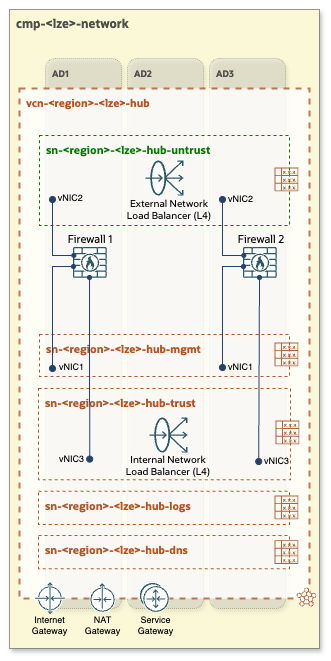
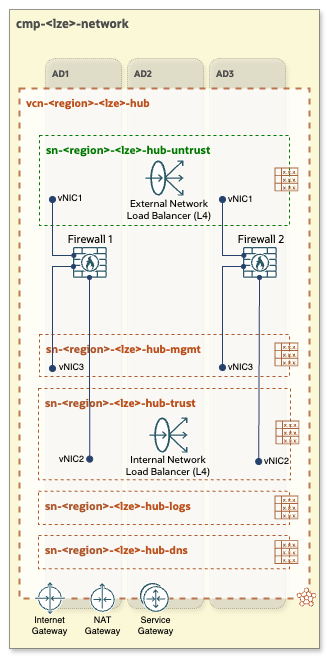
the first update of Hub-C and fixes

diff --git a/addons/oci-hub-models/hub_c/hub-c-packet_flow.md b/addons/oci-hub-models/hub_c/hub-c-packet_flow.md
@@ -1,0 +1,103 @@
+# OCI Open LZ - [Hub C Packet Flow](#)
+
+&nbsp; 
+
+### Overview
+The purpose of this document is to illustrate, through explanatory animations, the journey of a request packet (shown as a red rectangle) and a response packet (shown as a blue rectangle), along with the corresponding routing rules in each routing table (RT), for Inbound-Outbound (North-South) and East-West network traffic, within a **Hub C** and Spoke VCNs.
+
+&nbsp; 
+
+### Hub configuration details
+The setup includes two private Network Load Balancers operating in transparent mode with symmetric hashing enabled, two third-party network firewalls ensuring high availability (HA), and a public Load Balancer (LBaaS).
+
+&nbsp;
+
+#### **Network Load Balancer: NLB-Untrust**
+   - Type: *Private*
+   - Mode: *Source and destination IP header preservation (transparent)*
+   - Symmetric hashing: *Enabled*
+   - Placement: *Public Untrust subnet*
+   - Backends: *The first vNICs of Firewall 1 and Firewall 2*
+ 
+#### **Network Load Balancer: NLB-Trust**
+   - Type: *Private*
+   - Mode: *Source and destination IP header preservation (transparent)*
+   - Symmetric hashing: *Enabled*
+   - Placement: *Private Trust subnet*
+   - Backends: *The second vNICs of Firewall 1 and Firewall 2*
+
+&nbsp;
+
+#### **Third-Party Network Firewall configuration**
+In this architecture, each firewall appliance has two virtual network interfaces: one in the Trust (private) subnet and the second one in the Untrust (public) subnet (depending on the third-party firewall vendor, additional interfaces may be presented, such as a management network interface). The interface in the public subnet is associated with a public IP address. The firewalls perform NAT for outbound traffic, allowing the Spoke VMs to reach the internet via the public interfaces (vNIC1) of either Firewall 1 or Firewall 2.
+
+The firewalls have been configured with the following static route rules:
+
+| Network | Description | Gateway | Description |
+| --- | --- | --- | --- |
+| 0.0.0.0/0 |     | 10.0.0.1 | Default Gateway of Untrust subnet |
+| 10.0.2.0/24 | CIDR of Load Balancer's subnet | 10.0.1.1 | Default Gateway of Trust subnet |
+| 192.168.10.0/24 | Spoke A | 10.0.1.1 | Default Gateway of Trust subnet |
+| 192.168.20.0/24 | Spoke B | 10.0.1.1 | Default Gateway of Trust subnet |
+
+*Table 1: 3rd Party Firewall Route Table*
+
+&nbsp;
+
+#### **Load Balancer (LBaaS)**
+To serve different web applications the public Load Balancer leverages the routing policy, which has the following configuration:
+- if a.example.com, then route to backend VM-A
+- if b.example.com, then route to backend VM-B
+
+&nbsp;
+
+### Symmetric Hashing feature
+
+The OCI Network Load Balancer leverages symmetric hashing to ensure consistent handling of packets belonging to the same flow in both forward and return directions. Here's how symmetric hashing benefits the configuration:
+- Hash Calculation: Symmetric hashing calculates the same hash for packets in both forward and return directions. This means the hash remains unchanged when the source IP address:port value is exchanged with the destination IP address:port value.
+- Traffic Inspection: By enabling symmetric hashing, both forward and return traffic can be inspected by the same firewall appliance. This firewall appliance is hosted as a backend on the OCI Network Load Balancer, functioning in a [bump-in-the-wire](https://en.wikipedia.org/wiki/Bump-in-the-wire) fashion.
+- Simplified Firewall Configuration: Symmetric hashing eliminates the need for complex configurations on the firewall appliances, such as source NAT. This helps prevent asymmetric routing issues, ensuring a more streamlined and efficient setup.
+
+Enabling symmetric hashing allows for better traffic management and inspection, scaling of network firewall appliances, and reducing the complexity of firewall configurations while maintaining efficient and reliable network routing.
+
+For more information on [OCI Network Load Balancer and Symmetric hashing](https://docs.oracle.com/en-us/iaas/Content/NetworkLoadBalancer/NetworkLoadBalancers/preserve-source-id.htm).
+
+&nbsp;
+
+### 1. Inbound Packet Flow
+- Source: Internet
+- Destination: 192.168.10.10 
+
+<img src=“https://github.com/vavardan/hub_spoke_assets/blob/main/hub_c_inbound.gif” width=“600"/>
+
+A user from the Internet attempts to access *a.example.com*, which is hosted on **VM-A** behind a Public Load Balancer. Upon DNS resolution, the user's request targets the Load Balancer's public IP address. The packet then enters the Hub VCN via Internet Gateway, which has an associated VCN route table **RT: vcn-hub-igw** (Gateway Ingress Routing). The route rule defined in this VCN route table forces the packet to go through a private IP address of the **NLB-Untrust** network load balancer. **NLB-Untrust** selects one of the backend Firewalls and uses symmetric hashing to calculate the same hash for packets in both, forward and return directions. After control and inspection the firewall routes the packet to the public load balancer, based on its internal static routes ([*Table 1*](#Third-Party-Network-Firewall-configuration)) and VCN implicit local route. The Load Balancer then attempts to forward the packet to the appropriate backend VM (in this case to **VM-A**), based on its routing policy rules.
+
+&nbsp; 
+
+### 2. Outbound Packet Flow
+- Source: 192.168.10.10
+- Destination: Internet
+  
+<img src=“https://github.com/vavardan/hub_spoke_assets/blob/main/hub_c_outbound.gif” width=“600"/>
+
+**VM-A** initiates a communication to the Internet. The packet traverses through the Dynamic Routing Gateway (DRG) and is forced by the VCN route table - **RT: vcn-hub-ingress** to choose as the next-hop **NLB-Trust**. Then it selects one of the backend firewalls and uses symmetric hashing to calculate the same hash for packets in both, forward and return directions. After inpection, firewall does a NAT and routes the packet via vNIC1 to the Internet Gateway, based on its internal static routes ([*Table 1*](#Third-Party-Network-Firewall-configuration)) and VCN route table - **RT: vcn-hub-subnet-untrust**.
+
+&nbsp; 
+
+### 3. East-West Packet Flow
+- Source: 192.168.10.10
+- Destination: 192.168.20.20 
+
+<img src=“https://github.com/vavardan/hub_spoke_assets/blob/main/hub_c_east_west.gif” width=“600"/>
+
+**VM-A** initiates a communication with **VM-B**. The packet goes through the Dynamic Routing Gateway (DRG) and and is forced by the VCN route table - **RT: vcn-hub-ingress** to choose as the next-hop **NLB-Trust**. Then it selects one of the backend firewalls and uses symmetric hashing to calculate the same hash for packets in both, forward and return directions. Firewall ispects the packet and routes it back to the DRG, based on its internal static routes ([*Table 1*](#Third-Party-Network-Firewall-configuration)) and VCN route table - **RT: vcn-hub-subnet-trust**, which is assosiated with **subnet-hub-trust** subnet. The response packet follows a similar flow to get back to the **VM-A**.
+
+&nbsp; 
+
+# License
+
+Copyright (c) 2024 Oracle and/or its affiliates.
+
+Licensed under the Universal Permissive License (UPL), Version 1.0.
+
+See [LICENSE](LICENSE) for more details.

diff --git a/addons/oci-hub-models/hub_c/readme.md b/addons/oci-hub-models/hub_c/readme.md
@@ -1,0 +1,92 @@
+# OCI Open LZ - [Hub C](#)
+## A Hub with 3rd Party FW - Active/Active
+
+&nbsp; 
+
+**Table of Contents**
+
+[1. Overview](#1-overview)</br>
+[2. Components](#2-components)</br>
+[3. Specifications and Considerations](#3-specifications-and-considerations)</br>
+[4. Routing](#4-routing)</br>
+[5. Automation](#5-automation)</br>
+
+&nbsp;
+
+### Overview
+**Hub C** features third-party network firewalls configured in an Active/Active design, paired with OCI private Network Load Balancers operating in transparent mode with symmetric hashing to ensure packet flow symmetry. These firewalls manage both Inbound/Outbound (North-South) and East-West traffic, providing thorough control and inspection.
+
+&nbsp; 
+
+<img src="images/hub_c_design.png" width="250" height="value">
+
+> [!NOTE]
+> *This Hub diagram presents a general view of the **Hub C** architecture and its key concepts. A more detailed example, including routing tables and an internet-facing Load Balancer, is presented below.*
+
+&nbsp;
+
+###  2. Components
+- VCN (Virtual Cloud Network)
+- Two regional public subnets (depicted in green)
+    1. public-subnet for External Network Load Balancer (NLB-Untrust) and the external interfaces of the firewalls (vNIC1)
+    2. public-subnet for Load Balancer (LBaaS)
+- Four regional private subnets (depicted in dark-orange)
+    1. private-subnet for Internal Network Load Balancer (NLB-Trust) and the internal interfaces of the firewalls (vNIC2)
+    2. private-subnet for managment workloads (depending on the 3rd-party firewall vendor, additional interfaces may be created here, such as a management network interfaces)
+    3. private-subnet for logs
+    4. private-subnet for DNS (for OCI DNS resolver endpoints)
+- Internet Gateway
+- Service Gateway
+- Two OCI Network Load Balancers
+- Two 3rd party Network Firewalls
+- Public Load Balancer (LBaaS)
+
+&nbsp;
+
+### 3. Specifications and Considerations
+- Symmetric hashing: Both OCI Network Load Balancers are private and operate in source and destination IP header preservation mode with symmetric hashing enabled. This feature prevents asymmetric routing, ensuring that request and return packets pass through the same firewall appliance.
+- Firewalls: Third-party network firewalls are configured in Active/Active mode, ensuring resilience and scalability. The number of firewalls can be scaled up or down depending on throughput requirements and demand.
+- NAT: This Hub model does not include a OCI NAT Gateway, as NAT functionality is handled by third-party firewalls (depending on specific requirements, this function can be configured and handled by an OCI NAT Gateway).
+- Traffic visibility: Provides detailed control over inbound/source traffic entering or outbound traffic leaving the Hub VCN.
+- License flexibility: Possibility to use already existing license (BYOL) from a specific vendor.
+
+&nbsp;
+
+### 4. Routing
+
+The following diagram presents a Hub & Spoke architecture diagram with corresponding routing tables and routing rules.
+
+<img src="images/hub_c_routing.png" width="900" height="value">
+
+&nbsp;
+
+#### Legend:
+
+<img src="images/oci_hub_models_legend.png" width="200" height="value">
+
+&nbsp;
+
+For a comprehensive understanding of how network packets flow within **Hub C** and Spoke VCNs refer to the [Network packet flow animation - Hub C](/addons/oci-hub-models/hub_c/hub-c-packet_flow.md).
+
+&nbsp;
+
+> [!NOTE]
+> *The CIDR ranges shown in the architecture diagram are for illustrative purposes only and should be adjusted to align with each specific use case.*
+
+&nbsp;
+
+
+### 5. Automation
+
+For automating this Hub model use the [CIS Network](https://github.com/oracle-quickstart/terraform-oci-cis-landing-zone-networking) Terraform modules. As an example configuration please refer to [oci_open_lz_one-oe_network.auto.tfvars.json](/one-oe/runtime/one-click/oci_open_lz_one-oe_network.auto.tfvars.json).
+
+
+&nbsp; 
+
+# License
+
+Copyright (c) 2024 Oracle and/or its affiliates.
+
+Licensed under the Universal Permissive License (UPL), Version 1.0.
+
+See [LICENSE](LICENSE) for more details.

diff --git a/addons/oci-hub-models/readme.md b/addons/oci-hub-models/readme.md
@@ -13,22 +13,19 @@ This document provides an in-depth exploration of the various **OCI Network Hub 
 
 ### The Hub Menu
 
-| [**HUB A**](/addons/oci-hub-models/hub_a/readme.md) | [**HUB B**](/addons/oci-hub-models/hub_b/readme.md) | **HUB C**  | **HUB D**  | 
+| [**HUB A**](/addons/oci-hub-models/hub_a/readme.md) | [**HUB B**](/addons/oci-hub-models/hub_b/readme.md) | [**HUB C**](/addons/oci-hub-models/hub_c/readme.md)  | **HUB D**  | 
 |:-:|:-:|:-:|:-:|
-| [<img src="hub_a/images/hub_a_design.png" width="277" height="">](/addons/oci-hub-models/hub_a/readme.md) | [<img src="hub_b/images/hub_b_design.png" width="274" height="">](/addons/oci-hub-models/hub_b/readme.md) | <img src="hub_c/images/hub_c_design.png" width="280" height=""> |  <img src="hub_d/images/hub_d_design.png" width="280" height=""> | 
+| [<img src="hub_a/images/hub_a_design.png" width="300" height="">](/addons/oci-hub-models/hub_a/readme.md) | [<img src="hub_b/images/hub_b_design.png" width="300" height="">](/addons/oci-hub-models/hub_b/readme.md) | [<img src="hub_c/images/hub_c_design.png" width="315" height="">](/addons/oci-hub-models/hub_c/readme.md) | <img src="hub_d/images/hub_d_design.png" width="315" height=""> | 
 | Hub with Two **OCI Network Firewalls** | Hub with One **OCI Network Firewall** | Hub with **3rd Party FW** - AA | Hub with **3rd Party FW** - AP |
-| [Overview and Routing](/addons/oci-hub-models/hub_a/readme.md)  | [Overview and Routing](/addons/oci-hub-models/hub_b/readme.md) | Soon | -- |
-| [Packet Flow Animation](/addons/oci-hub-models/hub_a/hub-a-packet_flow.md) | [Packet Flow Animation](/addons/oci-hub-models/hub_b/hub-b-packet_flow.md) | Soon | -- |
-
-
-
+| [Overview and Routing](/addons/oci-hub-models/hub_a/readme.md)  | [Overview and Routing](/addons/oci-hub-models/hub_b/readme.md) | [Overview and Routing](/addons/oci-hub-models/hub_c/readme.md) | -- |
+| [Packet Flow Animation](/addons/oci-hub-models/hub_a/hub-a-packet_flow.md) | [Packet Flow Animation](/addons/oci-hub-models/hub_b/hub-b-packet_flow.md) | [Packet Flow Animation](/addons/oci-hub-models/hub_c/hub-c-packet_flow.md) | -- |
 
 &nbsp; 
 
 #### Abbreviations:
 - **FW** = Firewall
-- **AA** = Active - Active
-- **AP** = Active - Passive
+- **AA** = Active/Active
+- **AP** = Active/Passive
 - **cmp** = Compartment
 - **AD** = Availability Domain
 - **vcn** = Virtual Cloud Network

diff --git a/addons/oci-hub-models/hub_b/hub-b-packet_flow.md b/addons/oci-hub-models/hub_b/hub-b-packet_flow.md
@@ -3,7 +3,7 @@
 &nbsp; 
 
 ### Overview
-The purpose of this document is to illustrate, through explanatory animations, the journey of a request packet (shown as a red rectangle) and a response packet (shown as a blue rectangle), along with the corresponding routing rules in each routing table (RT), for Inbound-Outbound (north-south) and East-West network traffic, within a **Hub B** and Spoke VCNs.
+The purpose of this document is to illustrate, through explanatory animations, the journey of a request packet (shown as a red rectangle) and a response packet (shown as a blue rectangle), along with the corresponding routing rules in each routing table (RT), for Inbound-Outbound (North-South) and East-West network traffic, within a **Hub B** and Spoke VCNs.
 
 &nbsp; 
 

diff --git a/addons/oci-hub-models/hub_a/readme.md b/addons/oci-hub-models/hub_a/readme.md
@@ -67,7 +67,7 @@ For a comprehensive understanding of how network packets flow within **Hub A** a
 &nbsp;
 
 > [!NOTE]
-> The CIDR ranges shown in the architecture diagram are for illustrative purposes only and should be adjusted to align with each specific use case.
+> *The CIDR ranges shown in the architecture diagram are for illustrative purposes only and should be adjusted to align with each specific use case.*
 
 &nbsp;
 

diff --git a/addons/oci-hub-models/hub_b/readme.md b/addons/oci-hub-models/hub_b/readme.md
@@ -67,7 +67,7 @@ For a comprehensive understanding of how network packets flow within **Hub B** a
 &nbsp;
 
 > [!NOTE]
-> The CIDR ranges shown in the architecture diagram are for illustrative purposes only and should be adjusted to align with each specific use case.
+> *The CIDR ranges shown in the architecture diagram are for illustrative purposes only and should be adjusted to align with each specific use case.*
 
 &nbsp;
 

diff --git a/addons/oci-hub-models/hub_d/readme.md b/addons/oci-hub-models/hub_d/readme.md
@@ -1,0 +1,3 @@
+# OCI Open LZ - [Hub D](#)
+## A Hub with 3rd Party FW - Active/Passive
+
